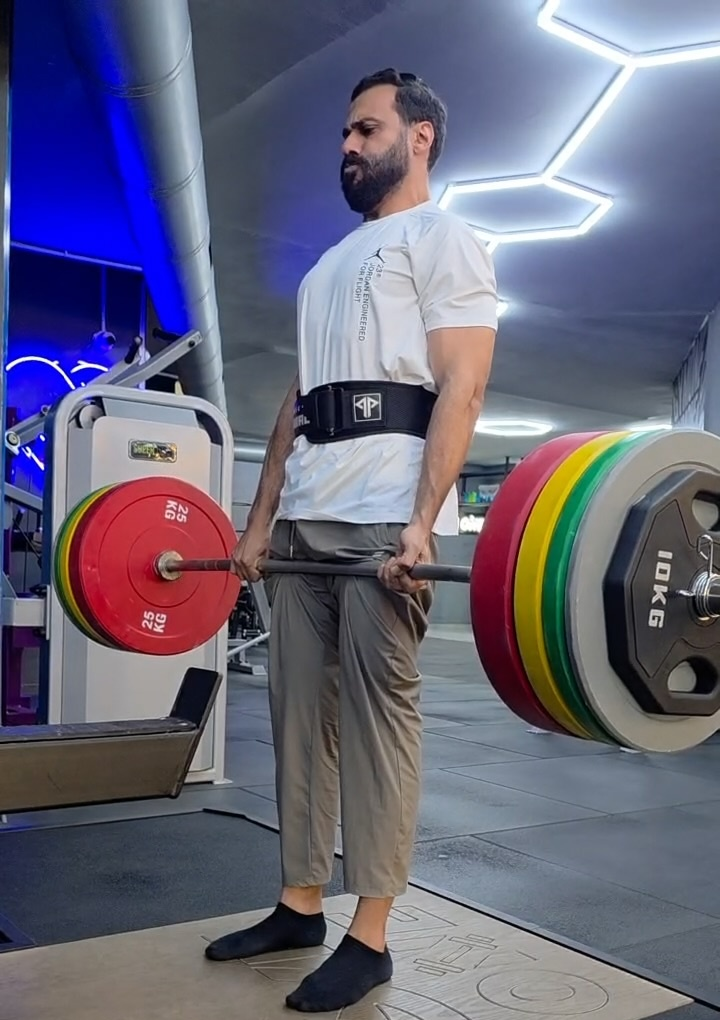
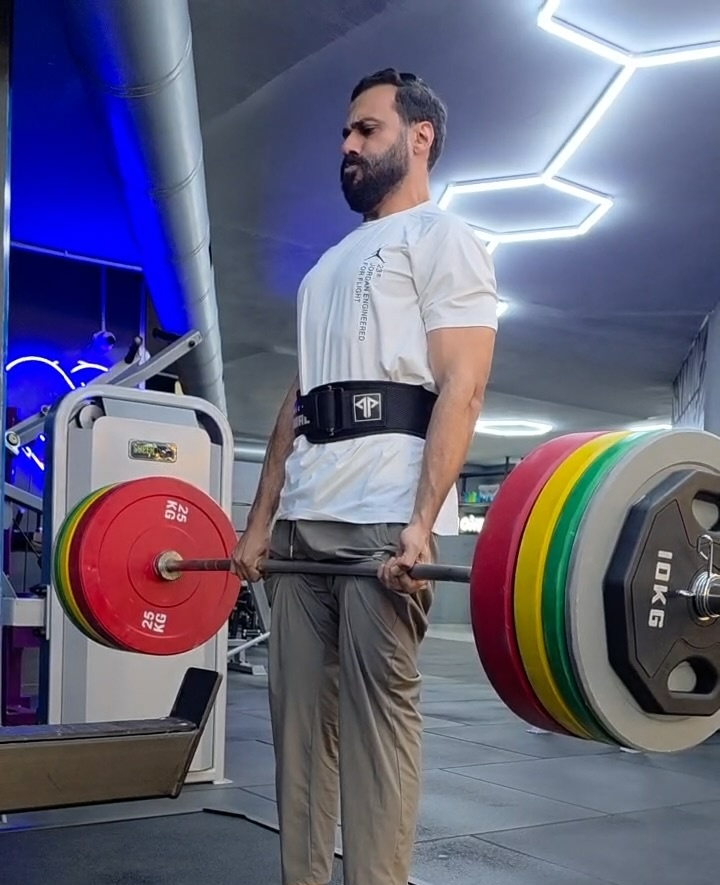
Crop deadlift photo above socks

diff --git a/index.html b/index.html
@@ -52,7 +52,7 @@
             <img
               src="images/deadlift.jpeg"
               width="720"
-              height="1020"
+              height="885"
               alt="Mohsen Abedelaal holding a loaded barbell at the gym"
               loading="eager"
               decoding="async">
